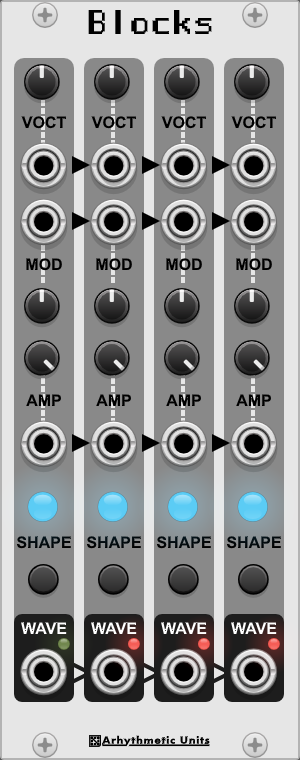
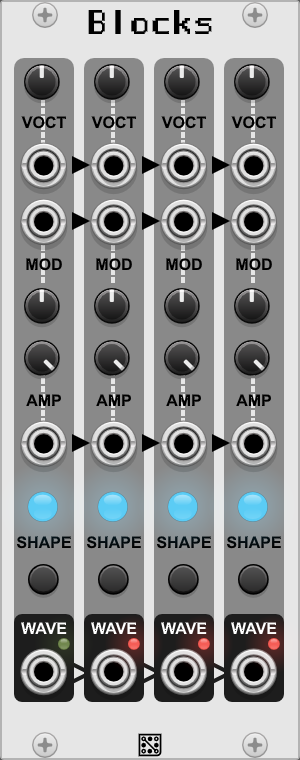
Match Fourier branding size and use emblems on narrow panels

Changed region(s): [[0.3, 0.9382, 0.69, 0.9987]]

diff --git a/specs/005-production-panel-captures-and-figures.md b/specs/005-production-panel-captures-and-figures.md
@@ -170,8 +170,9 @@ OS/architecture and unavailable native checks separately from PDF success.
     matched their initial light pixels exactly. Reviewed actual algorithm,
     factory waveforms, control caches, sliders, lights, titles and blanks.
 -   Addressed the user's additional artwork findings: all 18 registered
-    panel footers now use a 60-pixel-wide wordmark with a 370.5 vertical
-    center, retaining horizontal anchors. Pallet Town uses white for contrast.
+    panel footers initially used a 60-pixel-wide wordmark with a 370.5
+    vertical center; the legibility follow-up below supersedes that size
+    and placement. Pallet Town uses white for contrast.
     Blocks and Name Corp title contours now render as independent solids and
     holes, retaining their outlines without Rack's compound-path artifacts.
 -   Produced 14 native-density 760-pixel-high `Panel.png` crops and 14 vector
@@ -216,6 +217,31 @@ OS/architecture and unavailable native checks separately from PDF success.
     The publication completeness validator passed with Poppler on PATH.
 -   Documentation consumers, manifest mapping, source input paths and
     `git diff --check` passed. No DSP change or listening claim is made.
+
+### Brand Legibility Follow-Up On October 1, 2026
+
+-   Matched Fourier's native footer scale: 120.4554 by 11.2471 Rack pixels
+    for the full mark. Panels below 12 HP use its unchanged square emblem,
+    11.3938 by 11.2471 pixels, instead of shrinking the lettering. All 18
+    registered panel SVGs center their selected mark at a top of 366.882
+    pixels. Boss Fight moves its mark to the full panel's horizontal center;
+    Pallet Town retains white fill. No control or title artwork changed.
+-   `make -C tools/capture screenshots`: passed on the same macOS arm64 /
+    Rack 2.6.0 / 2x Retina setup. Reviewed footer clearance on all 16 enabled
+    panels, including both blanks and the tight 12 HP Super ADSR layout.
+    Footer pixels matched across all six live/preview/preference/context
+    views per panel. Disabled panels received the same SVG placement rule
+    but remain outside the native capture inventory.
+-   Refreshed all 14 publication PNGs. Pixel comparisons against the previous
+    committed images confirmed that every change is confined to the footer;
+    dimensions and all artwork above image row 733 remain unchanged. All 18
+    SVGs parse and their content preceding the footer is byte-identical.
+-   `make -C tools/capture test`: all seven export/rollback checks passed.
+    `make -C manual`: all 14 PDFs rebuilt; all 115 pages were rendered and
+    their layouts reviewed. Metadata, outlines, links and text checks passed,
+    as did `python3 scripts/validate.py manuals manual/.build` with Poppler
+    on PATH and `git diff --check`. This artwork-only follow-up adds no DSP
+    or listening verification; the dark-panel dependency below remains.
 
 ### Remaining Dependency
 

diff --git a/tools/capture/README.md b/tools/capture/README.md
@@ -113,9 +113,14 @@ panel pairs and actual theme selection remain **pending spec 008**. These
 captures do not claim that dark themes are implemented. Another 32 restored
 context views must match their initial light images exactly.
 
-The Arhythmetic Units footer is 60 Rack pixels wide (5.60229 high), centered
-on its existing horizontal anchor at vertical center 370.5 on every registered
-panel, including dormant panels. Pallet Town uses a white footer for contrast.
+The Arhythmetic Units footer matches Fourier's native logo scale: the full
+wordmark is 120.4554 Rack pixels wide and 11.2471 high on panels 12 HP and
+wider. Narrower panels use the unchanged 11.3938-pixel-wide square emblem
+at the same scale, keeping its detail readable without crowding the screws.
+Both variants are horizontally centered with their top at 366.882 pixels,
+including blank and dormant panels. Boss Fight's wordmark moves from the
+left control block to the panel center. Pallet Town retains white fill for
+contrast.
 Blocks and Name Corp's title contours were separated into independent solids
 with their existing holes; contour starting points avoid touching boundaries.
 This preserves the original vector silhouettes while avoiding Rack's

diff --git a/CHANGELOG.md b/CHANGELOG.md
@@ -4,8 +4,9 @@
 
 -   Generate manual covers and README panels from real Rack widgets; add
     numbered vector panel guides and optional capture/validation tooling.
--   Standardize footer logo size, improve Pallet Town footer contrast, and
-    repair compound-path artifacts in the Blocks and Name Corp titles.
+-   Match Fourier's larger footer wordmark, use the square brand emblem on
+    panels below 12 HP, and improve Pallet Town footer contrast. Repair
+    compound-path artifacts in the Blocks and Name Corp titles.
 
 -   Replace the legacy social banner with Arhythmetic Units artwork in SVG,
     PNG, and PDF, and display the new banner in the repository README.
